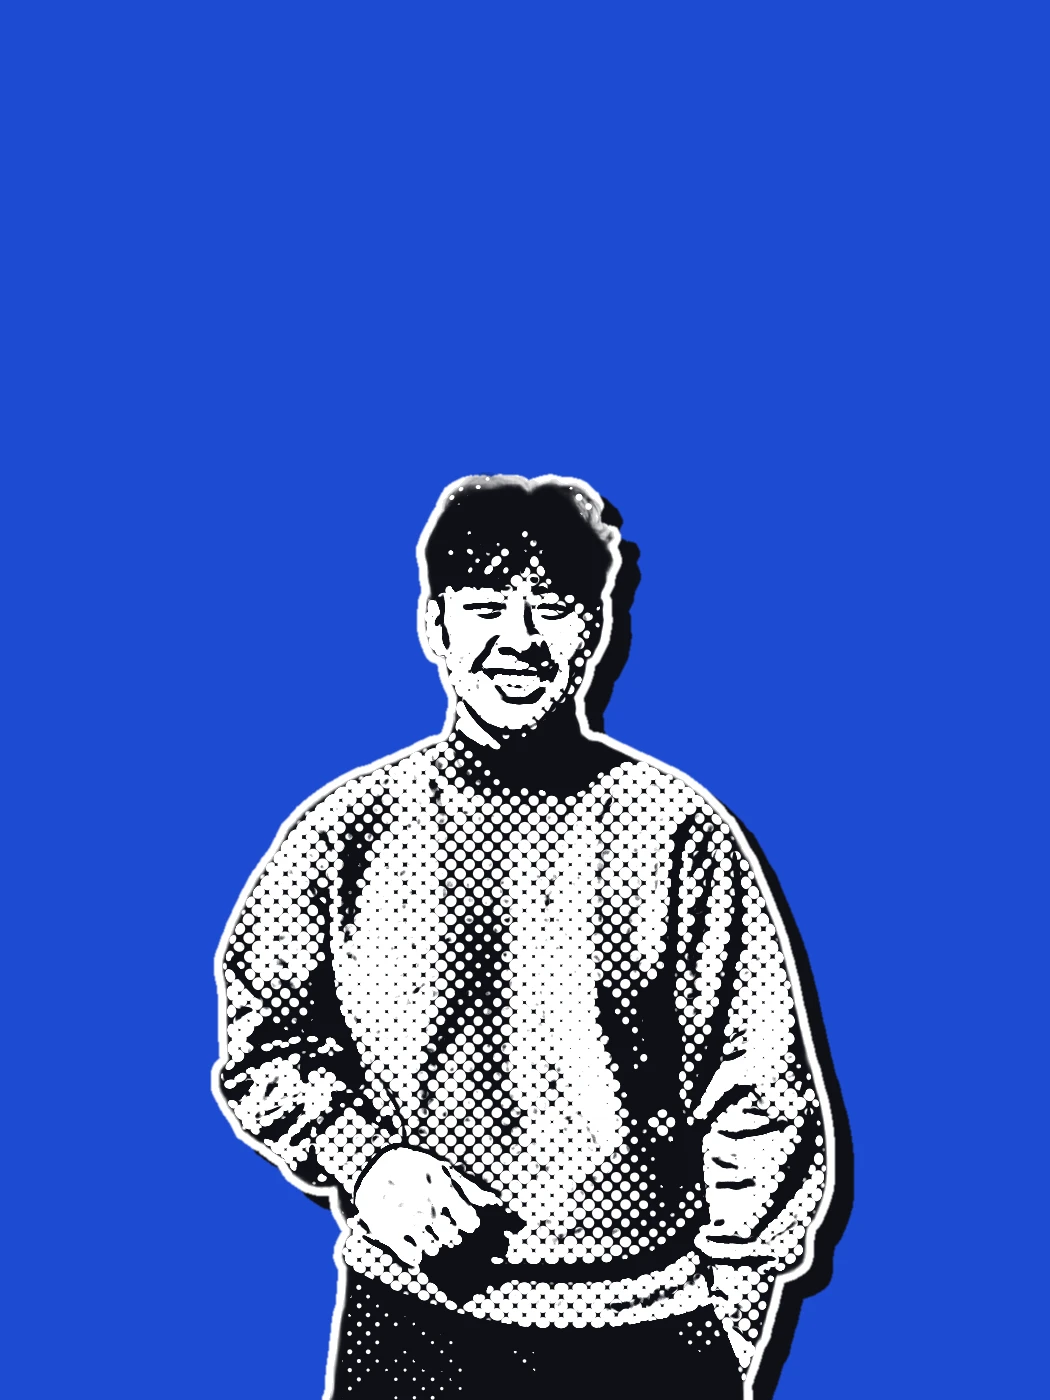
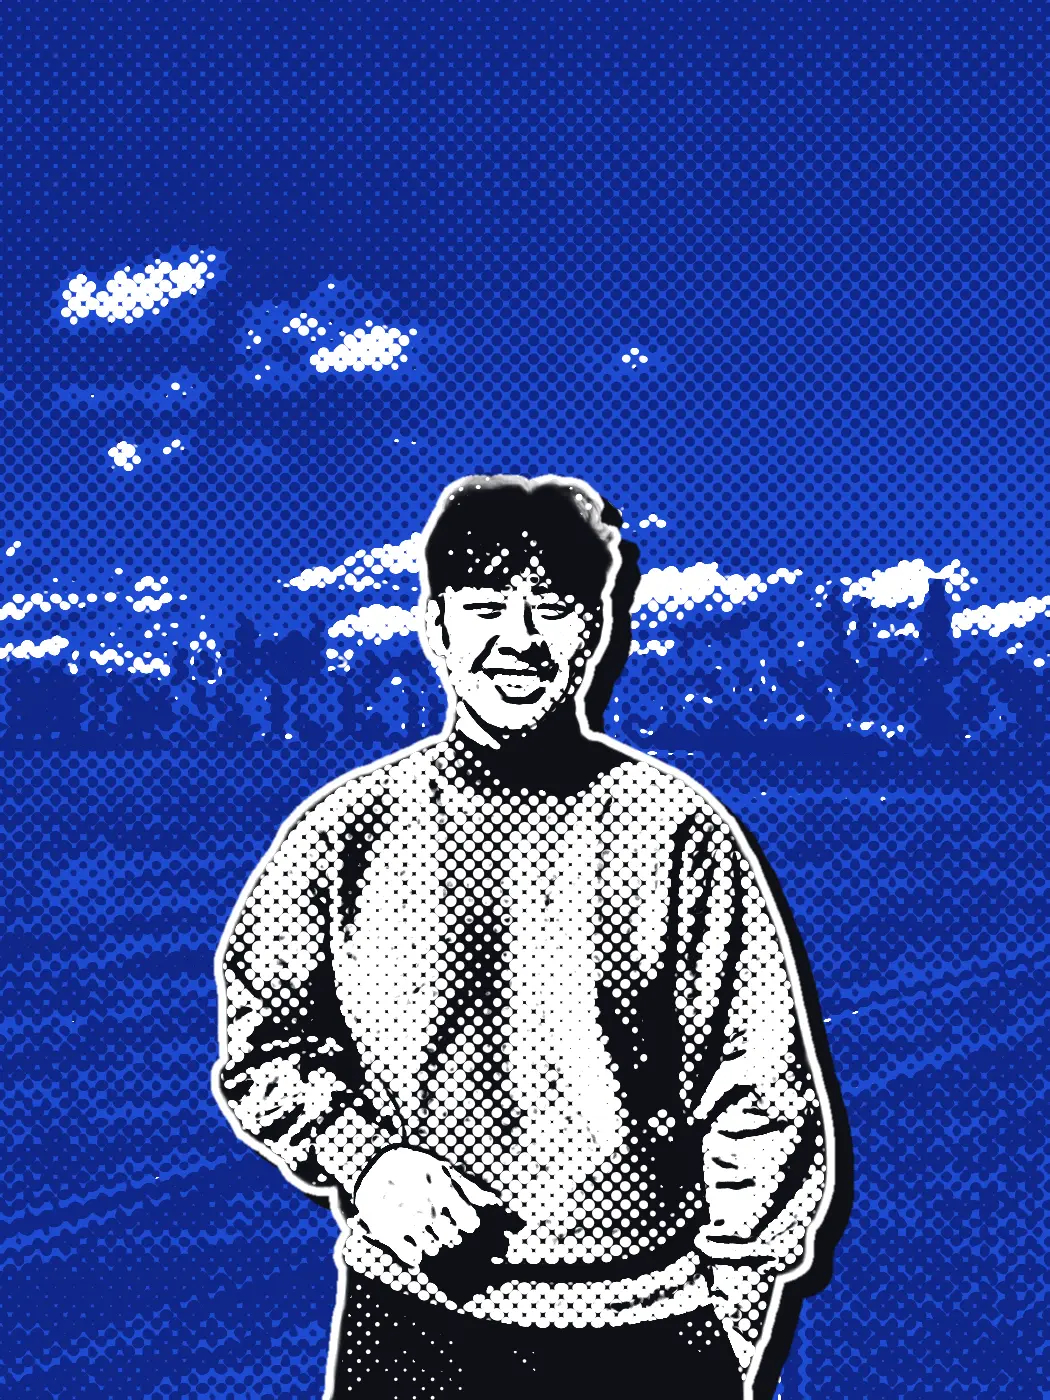
Halftone the city and clouds behind the portrait
The scene behind the figure becomes a cobalt halftone instead of a flat
field: deep-cobalt dots for the skyline and water, cream dots for the
clouds. WebP quality drops to 75 (visually identical on a dot screen),
landing the file at 228 KB.

Claude-Session: https://claude.ai/code/session_01FsNXDgcLPYC8Wtgrk5rTSo

diff --git a/scripts/halftone-profile.py b/scripts/halftone-profile.py
@@ -3,7 +3,9 @@ halftone-profile.py — bake the About portrait's riot halftone.
 
 Turns a photo into public/art/profile-halftone.webp: the subject cut out,
 an ink/cream 45-degree dot screen with ink line work for features, a cream
-keyline and a hard ink shadow, on the flat cobalt field (--color-riot).
+keyline and a hard ink shadow. The scene behind (city, clouds) becomes a
+cobalt halftone: deep-cobalt dots for the dark parts, cream dots for the
+brightest (clouds), on the cobalt field (--color-riot).
 ProfilePhoto.tsx shows it at rest and wipes the real photo in on hover.
 
   pip install "rembg[cpu]" opencv-python-headless scipy
@@ -20,7 +22,8 @@ from PIL import Image
 from rembg import new_session, remove
 
 PERIOD = 13  # dot pitch in source px (~4 px on screen in the About card)
-COBALT, INK, CREAM = np.array([210, 75, 30.]), np.array([22, 16, 15.]), np.array([255, 255, 255.])  # BGR
+COBALT, DEEP = np.array([210, 75, 30.]), np.array([138, 39, 16.])  # BGR: --color-riot, --color-riot-deep
+INK, CREAM = np.array([22, 16, 15.]), np.array([255, 255, 255.])
 
 src, dst = sys.argv[1], sys.argv[2]
 cut = np.array(remove(Image.open(src).convert('RGB'), session=new_session('birefnet-portrait')))
@@ -40,8 +43,15 @@ t = np.clip((L - lo) / (hi - lo), 0, 1)
 yy, xx = np.mgrid[0:h, 0:w].astype(float)
 u, v = (xx + yy) / np.sqrt(2), (xx - yy) / np.sqrt(2)
 d = np.hypot((u % PERIOD) - PERIOD / 2, (v % PERIOD) - PERIOD / 2) / (PERIOD / np.sqrt(2))
-cov = np.clip((np.sqrt(t) - d) * PERIOD / 1.5 + .5, 0, 1)
-cov = np.where(t >= .98, 1, np.where(t <= .02, 0, cov))
+
+
+def dots(tone):
+    """Antialiased dot coverage; dot area grows with tone (0..1)."""
+    c = np.clip((np.sqrt(tone) - d) * PERIOD / 1.5 + .5, 0, 1)
+    return np.where(tone >= .98, 1, np.where(tone <= .02, 0, c))
+
+
+cov = dots(t)
 
 # Ink line work from dark detail (eyes, mouth, folds).
 g = cv2.GaussianBlur(g8, (0, 0), 1.6).astype(float)
@@ -56,8 +66,12 @@ o = cv2.GaussianBlur(o, (3, 3), 0)
 dx, dy = int(k * 2.2), int(k * 1.8)
 shadow = np.zeros_like(o)
 shadow[dy:, dx:] = o[:-dy, :-dx]
-out = np.zeros((h, w, 3))
-out[:] = COBALT
+# Background scene: its own tone mapping (whole frame, gentler contrast).
+gb = cv2.createCLAHE(clipLimit=2.0, tileGridSize=(8, 8)).apply(cv2.cvtColor(np.array(Image.open(src).convert('RGB')), cv2.COLOR_RGB2GRAY))
+Lb = cv2.GaussianBlur(gb / 255., (0, 0), PERIOD / 5)
+dark, light = dots(np.clip((.75 - Lb) / .6, 0, 1)), dots(np.clip((Lb - .72) / .25, 0, 1))
+out = COBALT * (1 - dark[..., None]) + DEEP * dark[..., None]
+out = out * (1 - light[..., None]) + CREAM * light[..., None]
 for colour, alpha in ((INK, shadow), (CREAM, o), (fill, a)):
     out = out * (1 - alpha[..., None]) + colour * alpha[..., None]
-cv2.imwrite(dst, out.astype(np.uint8), [cv2.IMWRITE_WEBP_QUALITY, 90])
+cv2.imwrite(dst, out.astype(np.uint8), [cv2.IMWRITE_WEBP_QUALITY, 75])

diff --git a/ARCHITECTURE.md b/ARCHITECTURE.md
@@ -229,8 +229,9 @@ degrade gracefully (card falls back to static `SPOTIFY` data).
 4. Order in the array = order on the page. Keep the GitHub CTA card last.
 
 ### Change the About portrait
-The portrait rests as a baked halftone (`public/art/profile-halftone.webp`,
-also the montage centre cell) and wipes to the real `profile.webp` on hover,
+The portrait rests as a baked halftone (`public/art/profile-halftone.webp`:
+the figure over a cobalt halftone of the city and clouds; also the montage
+centre cell) and wipes to the real `profile.webp` on hover,
 or on tap for touch (`about/ProfilePhoto.tsx`, `.profile-reveal` in
 `index.css`). After replacing `profile.webp`, re-bake the halftone with
 `python scripts/halftone-profile.py public/art/profile.webp public/art/profile-halftone.webp`
